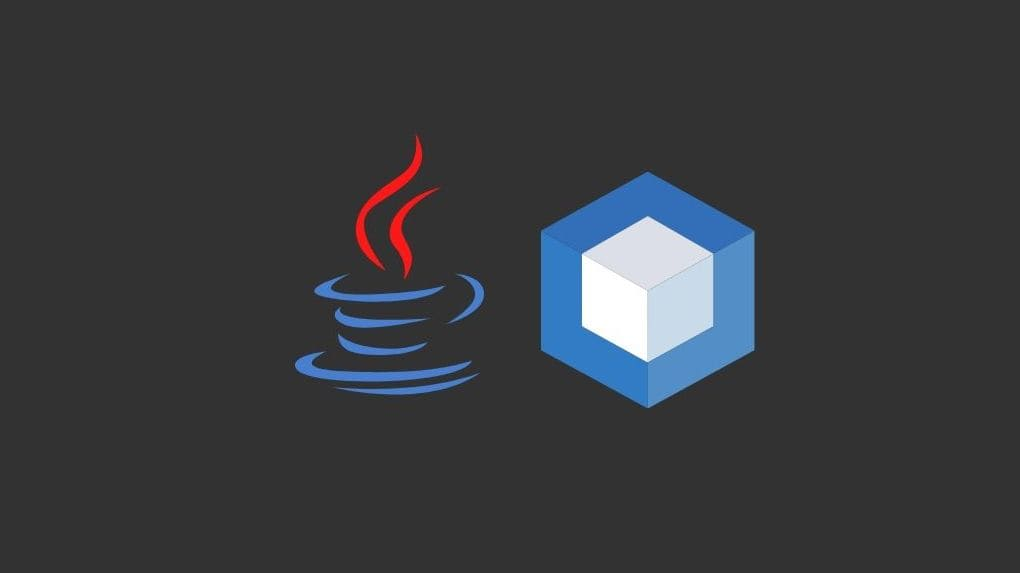
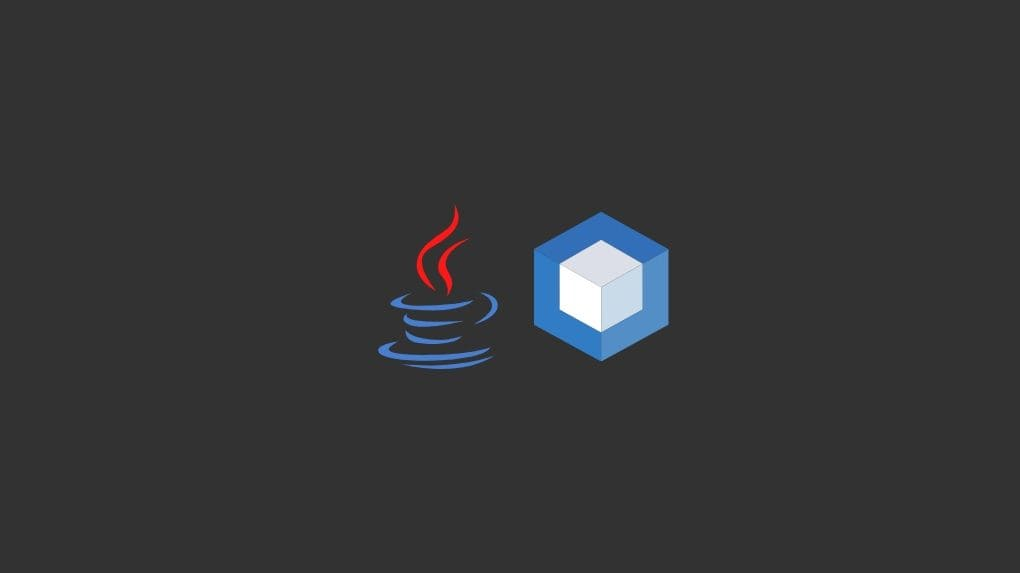
Last update image thumbnail

Changed region(s): [[0.5167, 0.2967, 0.7598, 0.712], [0.2735, 0.2373, 0.4863, 0.712]]

diff --git a/components/single.js b/components/single.js
@@ -92,8 +92,9 @@ export default meta => ({ children }) => {
             }
 
             .article-thumbnail img {
+              display: block;
+              height: auto;
               width: 100%;
-              height: 100%;
             }
 
             .article-body {
